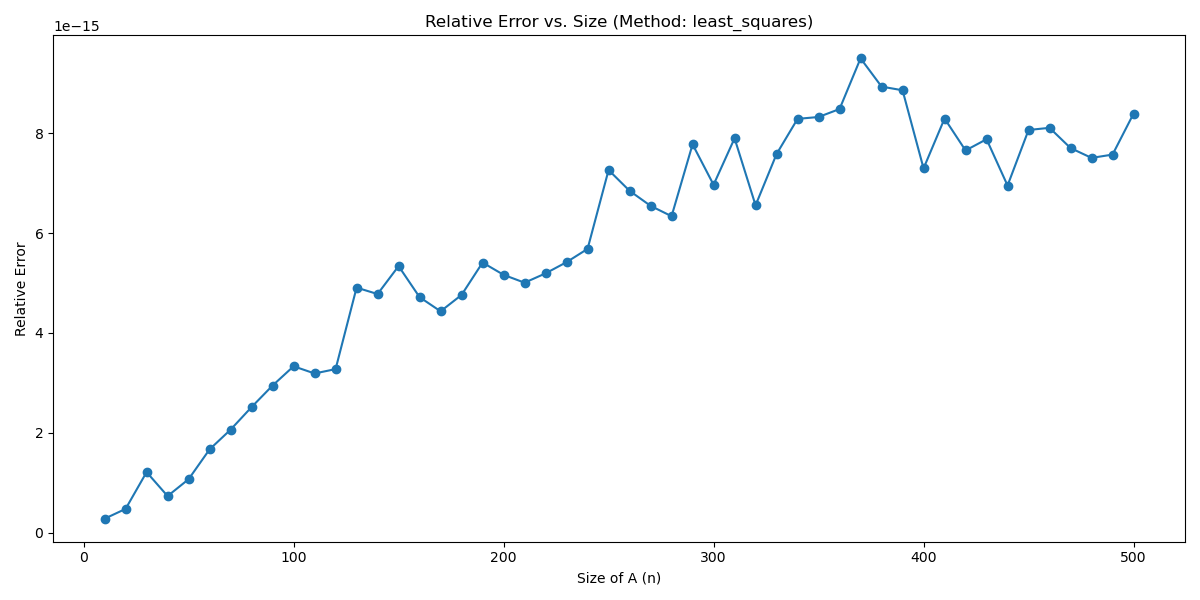
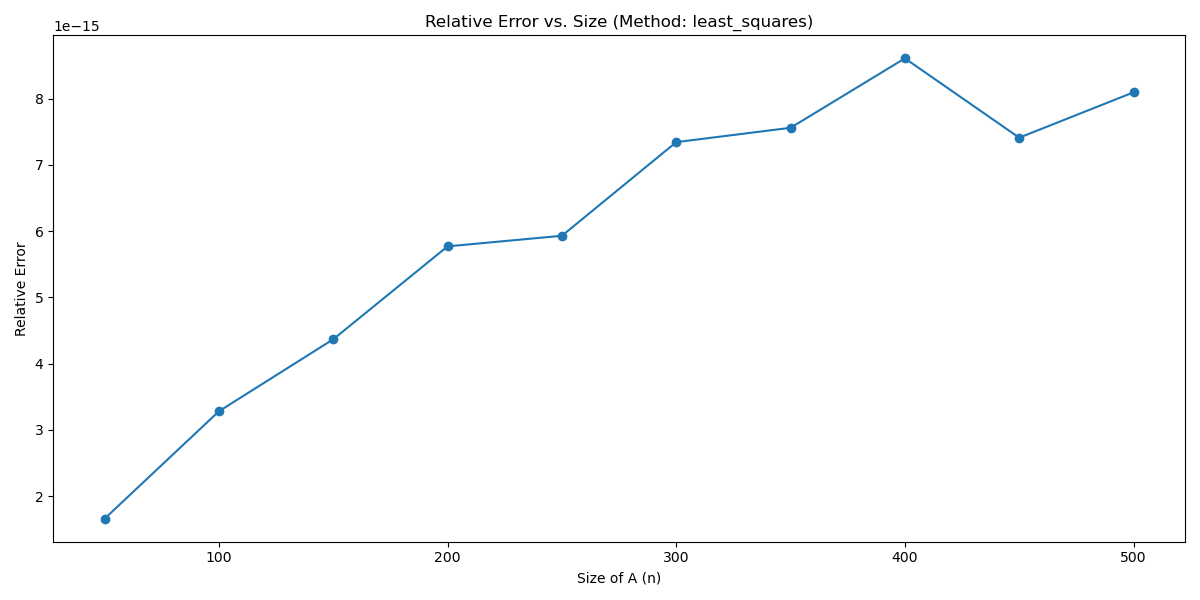
3-29-24

diff --git a/hw3/prog.py b/hw3/prog.py
@@ -9,7 +9,7 @@ def generate_spd_matrix(n):
     A += n * np.eye(n)  # Make the matrix positive definite
     return A
 
-def plot_relative_error_and_condition_number(method, max_size, step=10):
+def plot_relative_error_and_condition_number(method, max_size, step=50):
     """Plot the relative error and condition number for the specified method."""
     sizes = range(step, max_size + 1, step)
     errors = []
